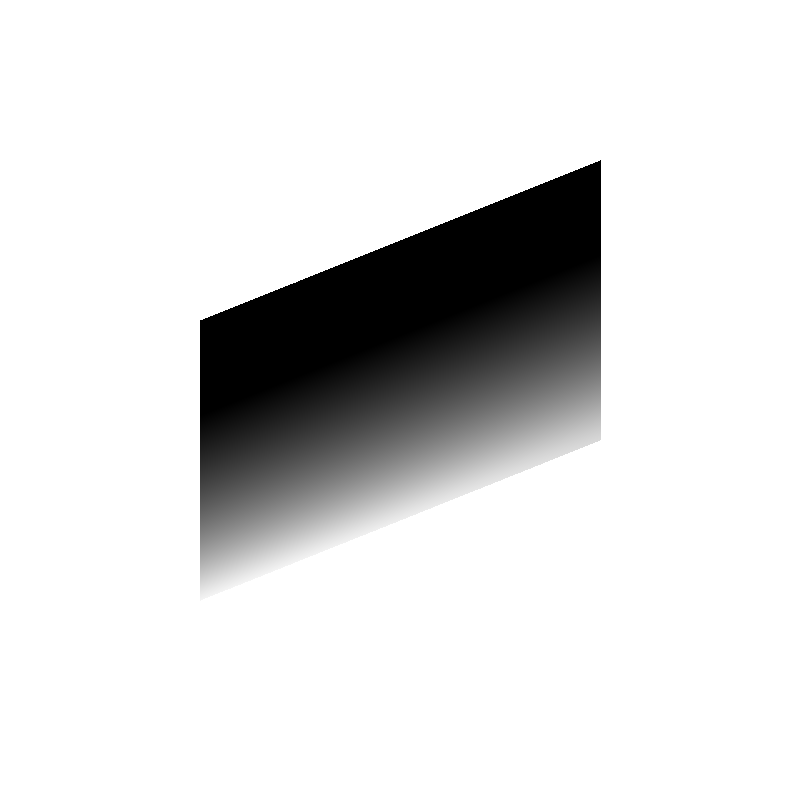
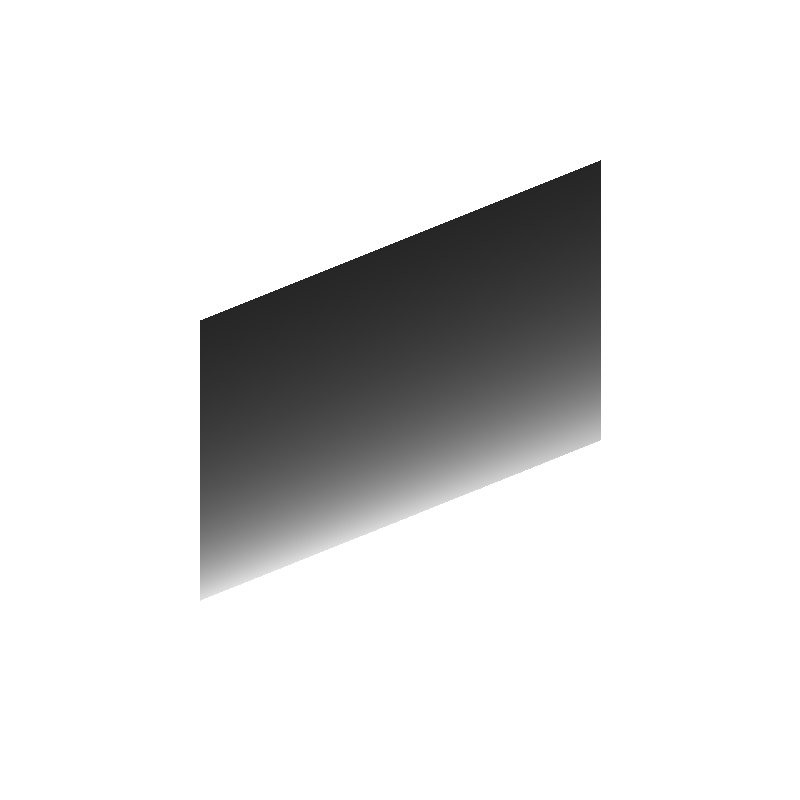
should be working now

Changed region(s): [[0.25, 0.1875, 0.75, 0.5938], [0.25, 0.5312, 0.7188, 0.75], [0.7188, 0.5, 0.75, 0.5312]]

diff --git a/Assignment_2/src/main.cpp b/Assignment_2/src/main.cpp
@@ -13,6 +13,95 @@
 // Shortcut to avoid Eigen:: everywhere, DO NOT USE IN .h
 using namespace Eigen;
 
+// Custom Functions
+
+Vector3d getPoint(Vector3d u_vector, Vector3d v_vector, Vector3d d_vector, Vector3d a_vector, Vector3d e_vector)
+{
+    // *** Make matrix A ***
+
+    Matrix3d A;
+    A << -u_vector, -v_vector, d_vector;
+    // std::cout << "Here is the matrix A:\n"
+    //           << A << std::endl;
+
+    // *** Make vector from a-e ***
+
+    Vector3d ae_vector = a_vector - e_vector;
+    // std::cout << "Here is the vector a:\n"
+    //           << a_vector << std::endl;
+    // std::cout << "Here is the vector e:\n"
+    //           << e_vector << std::endl;
+    // std::cout << "Here is the vector ae:\n"
+    //           << ae_vector << std::endl;
+
+    // *** Calc the values for solution ****
+    Vector3d solution_vector = A.colPivHouseholderQr().solve(ae_vector);
+
+    // For some reason the left and right version of the equation are giving different points
+
+    // Vector3d rightside = a_vector + (solution_vector(0) * u_vector) + (solution_vector(1) * v_vector);
+
+    // Vector3d leftside = e_vector + (solution_vector(2) * v_vector);
+
+    // if (leftside != rightside)
+    // {
+    //     printf("NOT GOOD\n");
+    //     std::cout << "Here is the left:\n"
+    //               << leftside << std::endl;
+    //     std::cout << "Here is the right:\n"
+    //               << rightside << std::endl;
+    // }
+
+    return a_vector + (solution_vector(0) * u_vector) + (solution_vector(1) * v_vector);
+}
+
+bool raytri(Vector3d u_vector, Vector3d v_vector, Vector3d d_vector, Vector3d a_vector, Vector3d e_vector)
+{
+    // *** Make matrix A ***
+
+    Matrix3d A;
+    A << -u_vector, -v_vector, d_vector;
+    // std::cout << "Here is the matrix A:\n"
+    //           << A << std::endl;
+
+    // *** Make vector from a-e ***
+
+    Vector3d ae_vector = a_vector - e_vector;
+    // std::cout << "Here is the vector a:\n"
+    //           << a_vector << std::endl;
+    // std::cout << "Here is the vector e:\n"
+    //           << e_vector << std::endl;
+    // std::cout << "Here is the vector ae:\n"
+    //           << ae_vector << std::endl;
+
+    // *** Calc the values for solution ****
+    Vector3d solution_vector = A.colPivHouseholderQr().solve(ae_vector);
+    // std::cout << "Here is the vector solution:\n"
+    //           << solution_vector << std::endl;
+
+    // *** Validate answer ***
+
+    // Check t
+    if (solution_vector(2) < 0)
+    {
+        return false;
+    }
+
+    // Check u
+    if (solution_vector(0) < 0 || solution_vector(0) > 1)
+    {
+        return false;
+    }
+
+    // Check v
+    if (solution_vector(1) <= 0 || solution_vector(1) > 1)
+    {
+        return false;
+    }
+
+    // *** If all checks good, return true. ***
+    return true;
+}
 void raytrace_sphere()
 {
     std::cout << "Simple ray tracer, one sphere with orthographic projection" << std::endl;
@@ -91,9 +180,9 @@ void raytrace_parallelogram()
     const Vector3d y_displacement(0, -2.0 / C.rows(), 0);
 
     // TODO: Parameters of the parallelogram (position of the lower-left corner + two sides)
-    const Vector3d pgram_origin(-0.5, -0.5, 0);
-    const Vector3d pgram_u(0, 0.7, -10);
-    const Vector3d pgram_v(1, 0.4, 0);
+    const Vector3d pgram_origin(-0.5, -0.5, 0); // a
+    const Vector3d pgram_u(0, 0.7, -10);        // b - a
+    const Vector3d pgram_v(1, 0.4, 0);          // c - a
 
     // Single light source
     const Vector3d light_position(-1, 1, 1);
@@ -105,19 +194,35 @@ void raytrace_parallelogram()
             const Vector3d pixel_center = image_origin + double(i) * x_displacement + double(j) * y_displacement;
 
             // Prepare the ray
-            const Vector3d ray_origin = pixel_center;
-            const Vector3d ray_direction = camera_view_direction;
+            const Vector3d ray_origin = pixel_center;             // e
+            const Vector3d ray_direction = camera_view_direction; // d
 
             // TODO: Check if the ray intersects with the parallelogram
-            Vector3d ray_on_xyz(ray_origin(0), ray_origin(1), ray_origin(2));
-            if (true)
+
+            // f(u,v) = a + (b-a)u + (c-a)v  **Will need to confirm if need to make unit vector length or not**
+            // ** this is a (x,y,z) point that is inside of the parallelogram **
+            // b = pu + a
+            // c = pv + a
+            // a = origin
+
+            // p(t) = e + (t*d) ** this is a (x,y,z) point **
+            // e = origin of ray
+            // d = ray direction
+
+            // Intersects if p(t) = f(u,v); {t > 0, u >= 0 , v >= 0, u+v <= 1}
+
+            //
+
+            if (raytri(pgram_u, pgram_v, ray_direction, pgram_origin, ray_origin))
             {
                 // TODO: The ray hit the parallelogram, compute the exact intersection
                 // point
-                Vector3d ray_intersection(0, 0, 0);
+
+                Vector3d ray_intersection = getPoint(pgram_u, pgram_v, ray_direction, pgram_origin, ray_origin);
 
                 // TODO: Compute normal at the intersection point
-                Vector3d ray_normal = ray_intersection.normalized();
+                // Vector3d ray_normal = ray_intersection.normalized();
+                Vector3d ray_normal = (pgram_v.cross(pgram_u)).normalized();
 
                 // Simple diffuse model
                 C(i, j) = (light_position - ray_intersection).normalized().transpose() * ray_normal;
@@ -271,10 +376,10 @@ void raytrace_shading()
 
 int main()
 {
-    raytrace_sphere();
+    // raytrace_sphere();
     raytrace_parallelogram();
-    raytrace_perspective();
-    raytrace_shading();
+    // raytrace_perspective();
+    // raytrace_shading();
 
     return 0;
 }
